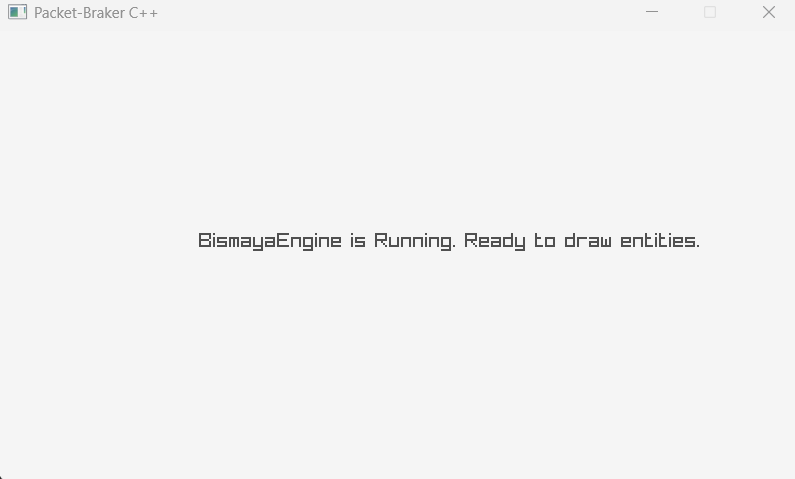
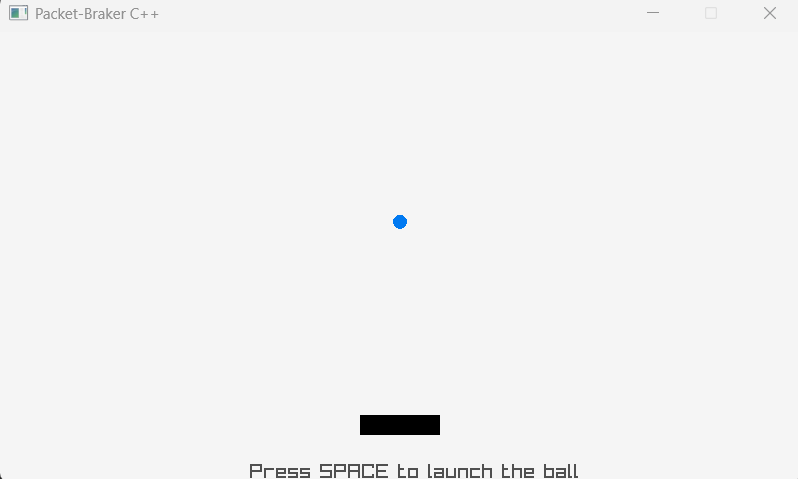
setting up pedal and ball on screen

diff --git a/packet_braker/main.cpp b/packet_braker/main.cpp
@@ -1,4 +1,5 @@
 #include "raylib.h"
+#include <string>
 
 constexpr int SCREEN_HEIGHT = 450;
 constexpr int SCREEN_WIDTH = 800;
@@ -42,6 +43,10 @@ public:
   BismayaEngine() {
     InitWindow(SCREEN_WIDTH, SCREEN_HEIGHT, "Packet-Braker C++");
     SetTargetFPS(60);
+
+    ball.position = {player.position.x,
+                     player.position.y - (player.position.y / 2) - ball.radius};
+
     gameOver = false;
     pause = false;
   }
@@ -61,8 +66,13 @@ public:
   void draw() {
     BeginDrawing();
     ClearBackground(RAYWHITE);
-    DrawText("BismayaEngine is Running. Ready to draw entities.", 200, 200, 20,
-             DARKGRAY);
+    DrawRectangle((int)(player.position.x - player.size.x / 2),
+                  (int)(player.position.y - player.size.y / 2),
+                  (int)player.size.x, (int)player.size.y, BLACK);
+    DrawCircleV(ball.position, static_cast<float>(ball.radius), BLUE);
+    std::string instruction{"Press SPACE to launch the ball"};
+    DrawText(instruction.c_str(), (SCREEN_WIDTH / 2) - 150, SCREEN_HEIGHT - 20,
+             20, DARKGRAY);
     EndDrawing();
   }
 };
